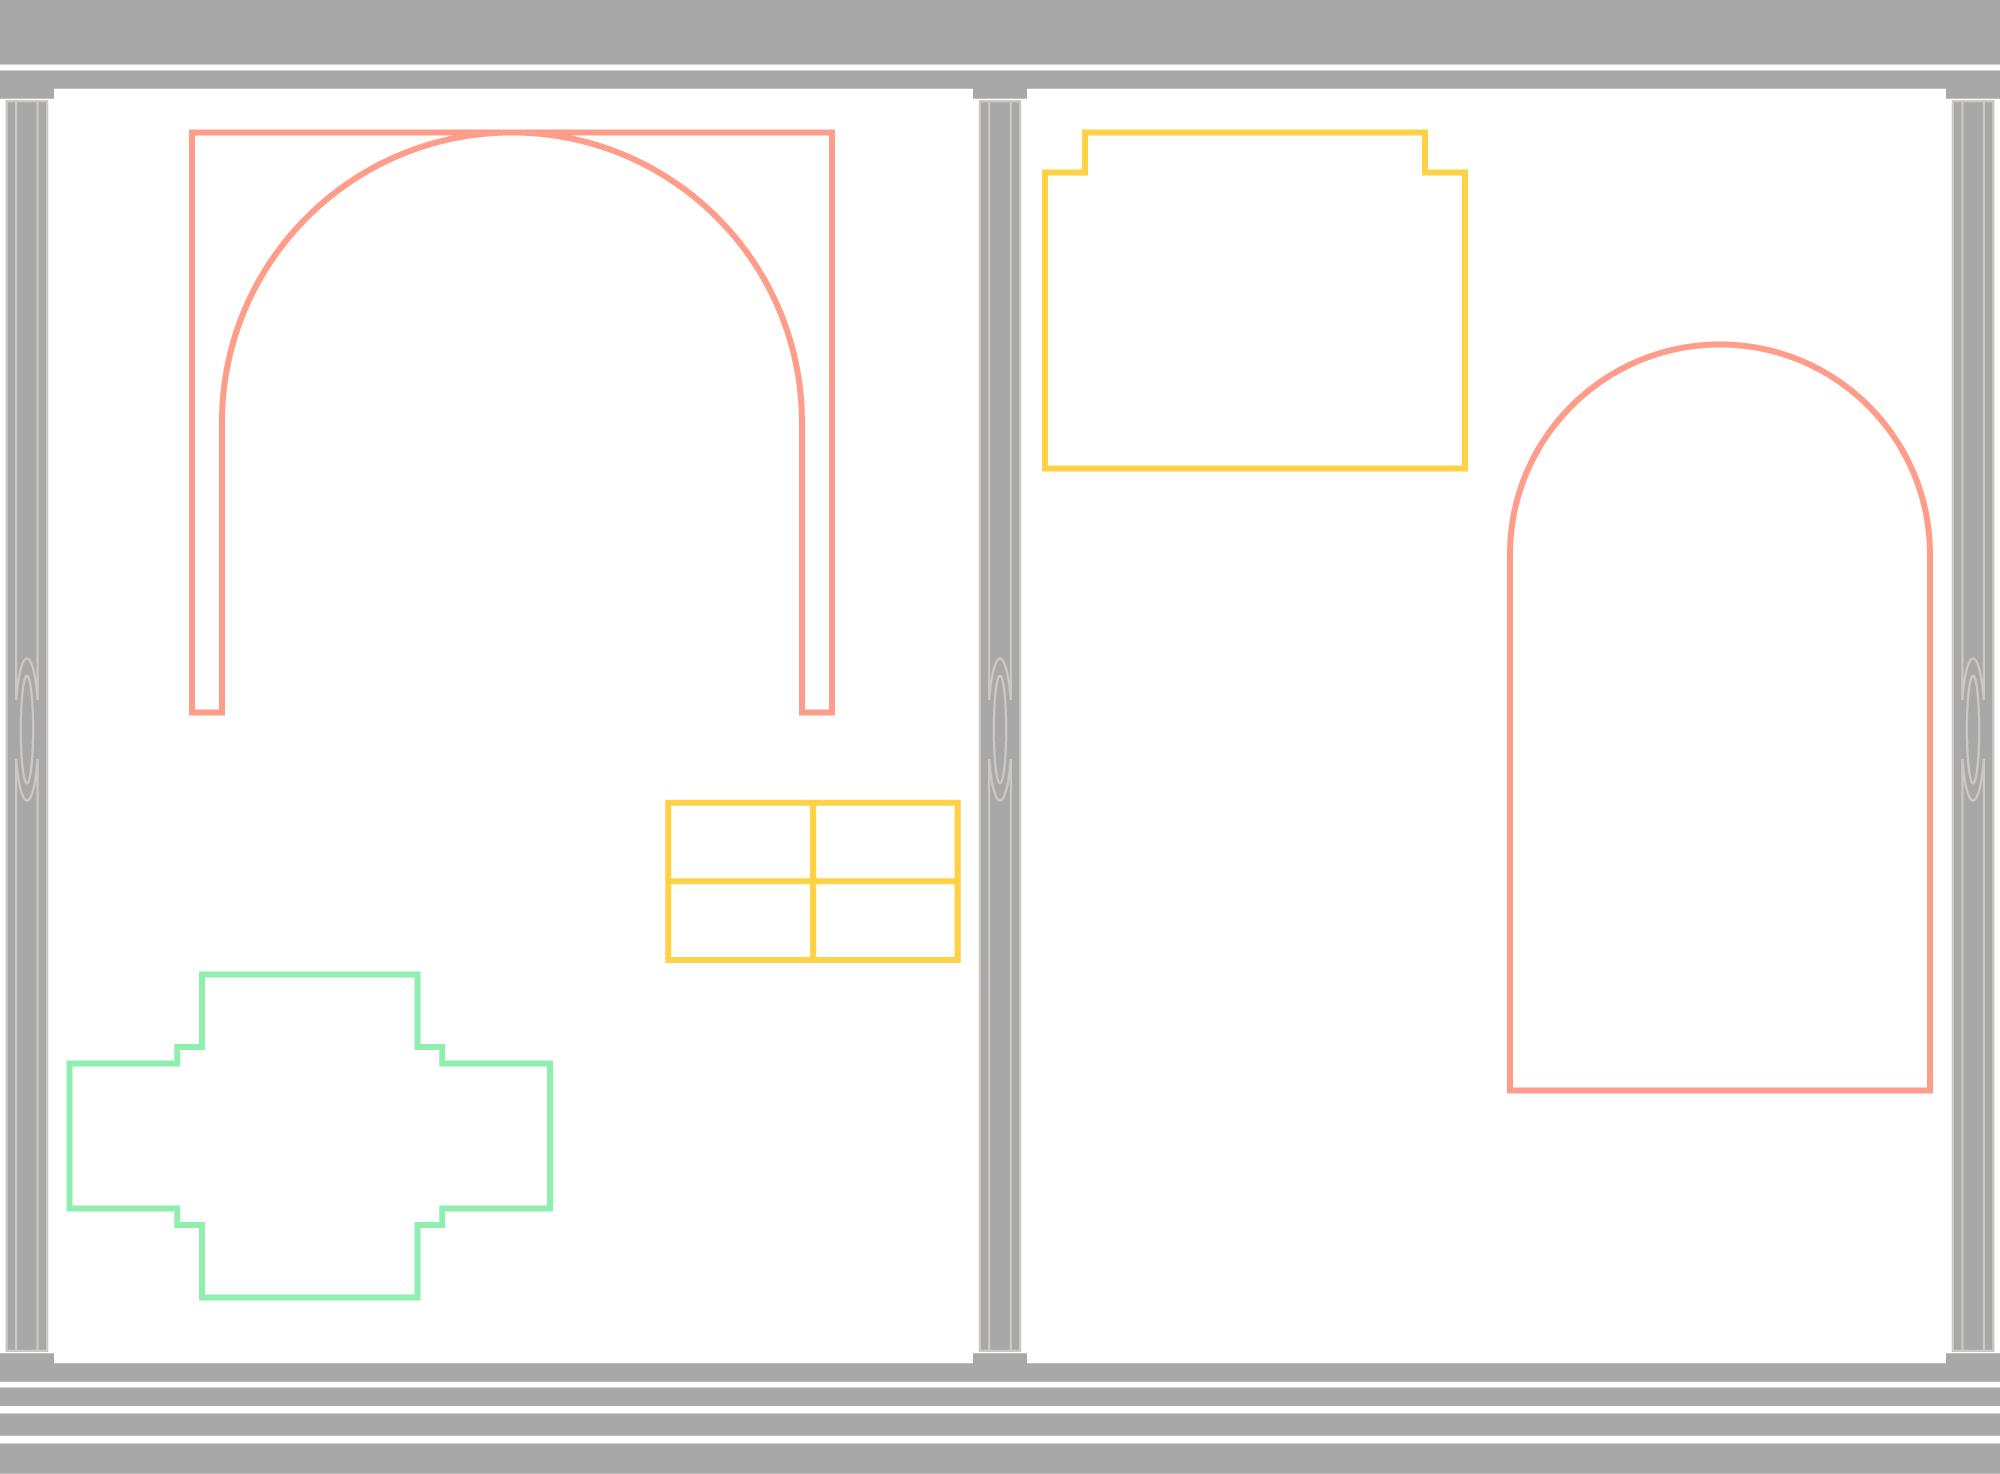
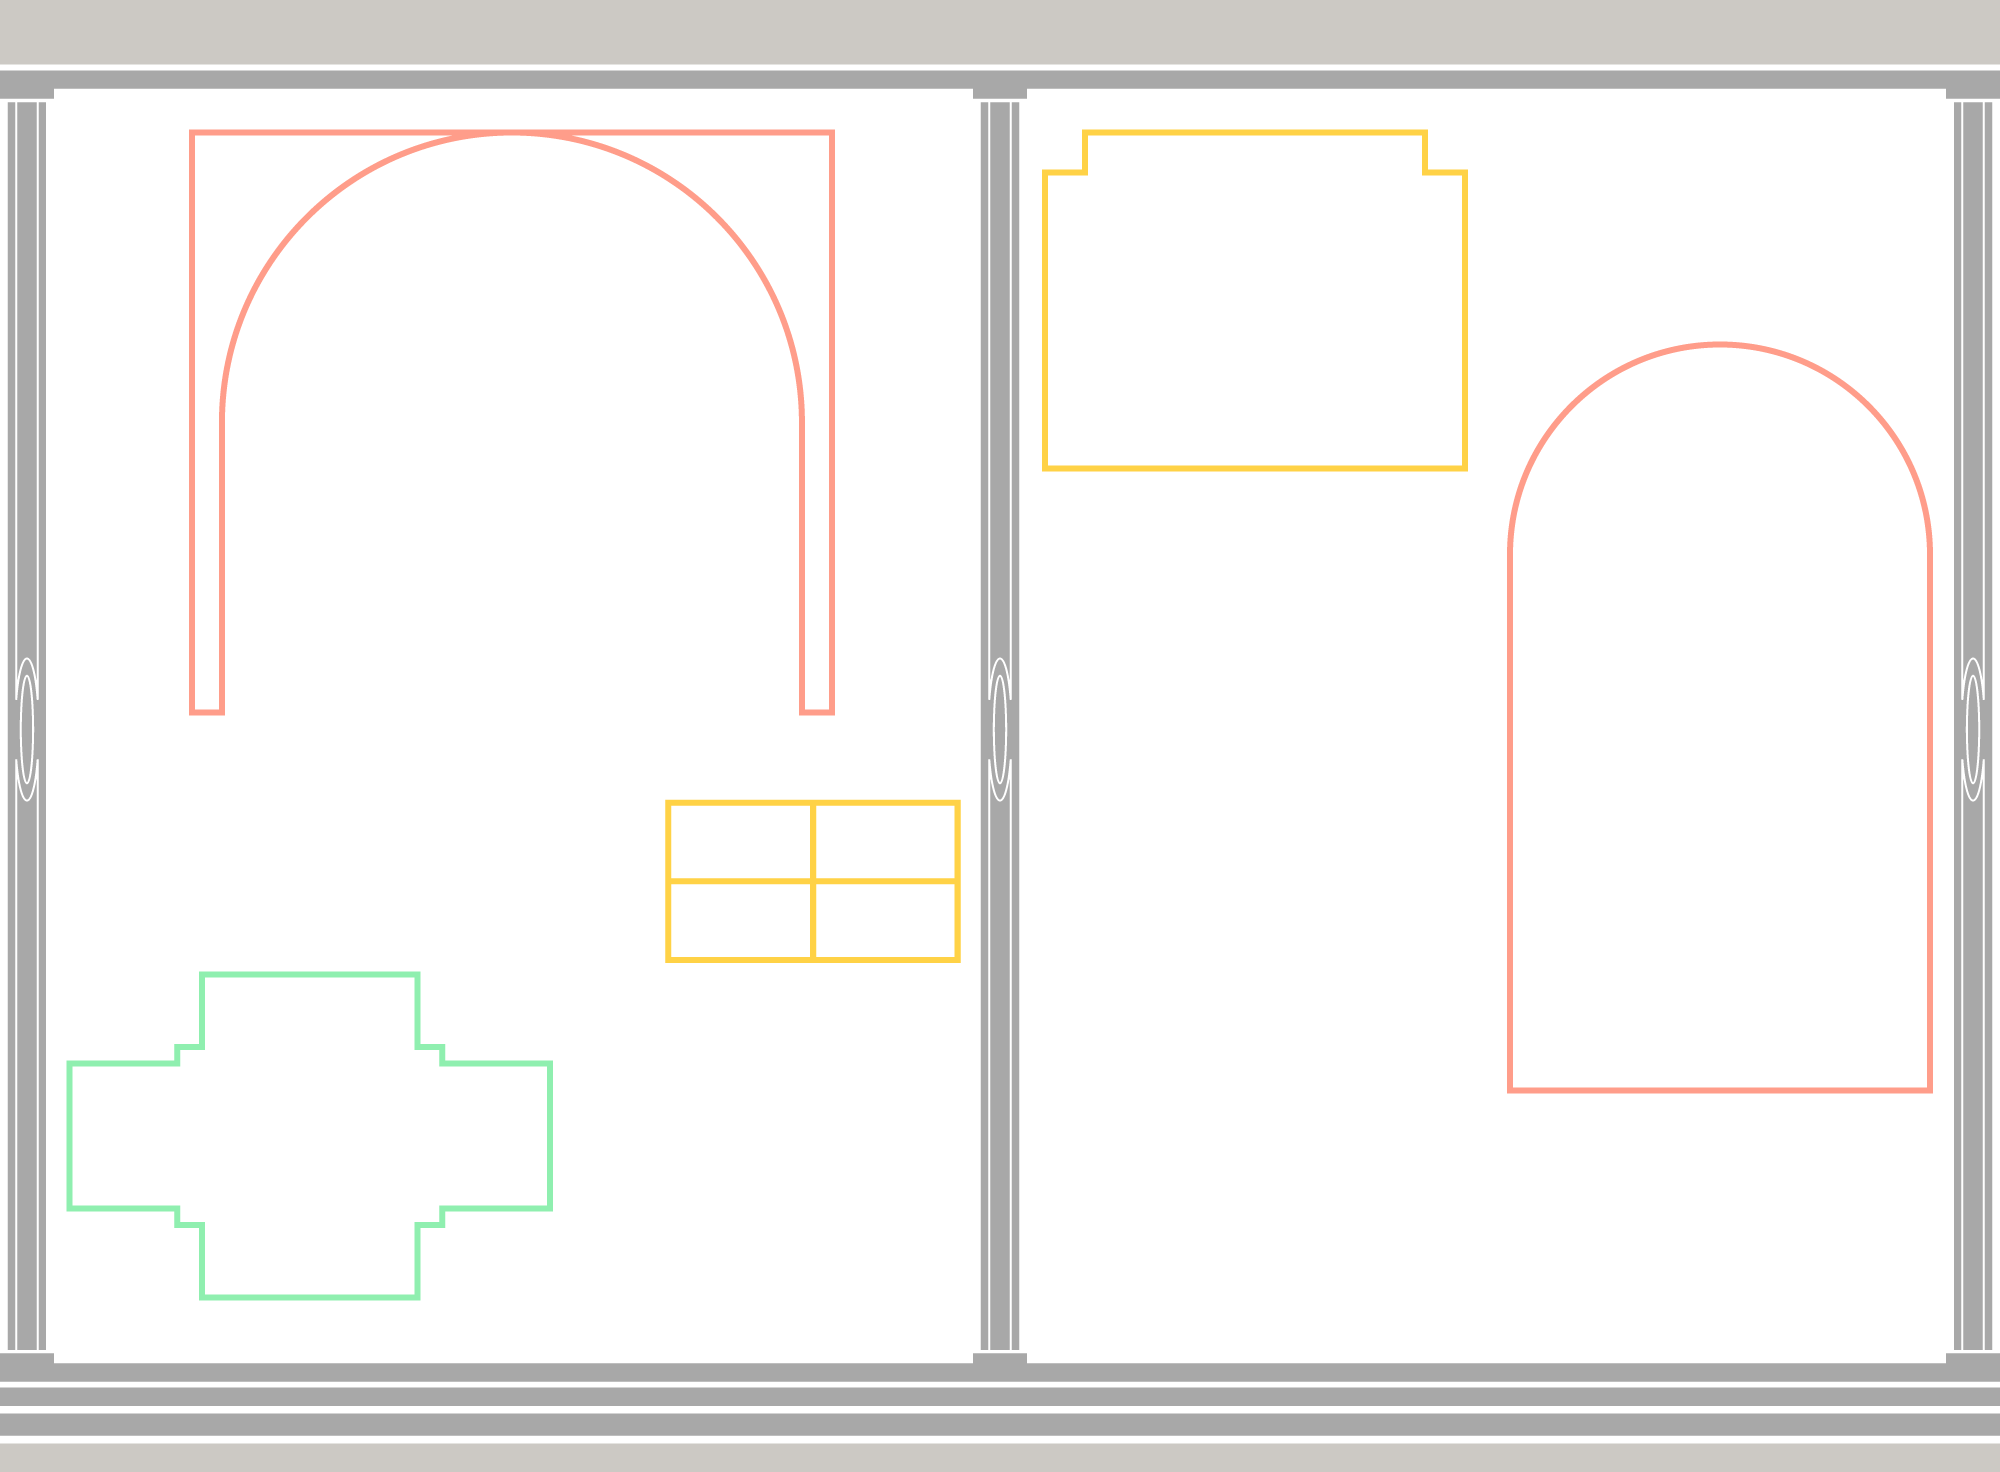
Pomo windows made transparent

diff --git a/source/_posts/pomo-windows.md b/source/_posts/pomo-windows.md
@@ -1,5 +1,5 @@
 ---
-title: The Windows of Pomo Palace
+title: The Windows of a PoMo Palace
 date: 2016-03-01 12:00:00
 categories:
 - present
@@ -7,6 +7,6 @@ tags:
 - illustration
 - drawings
 images:
-- images/pomo-windows.png
+- images/pomo-windows-transparent.png
 bigImages: true
 ---
